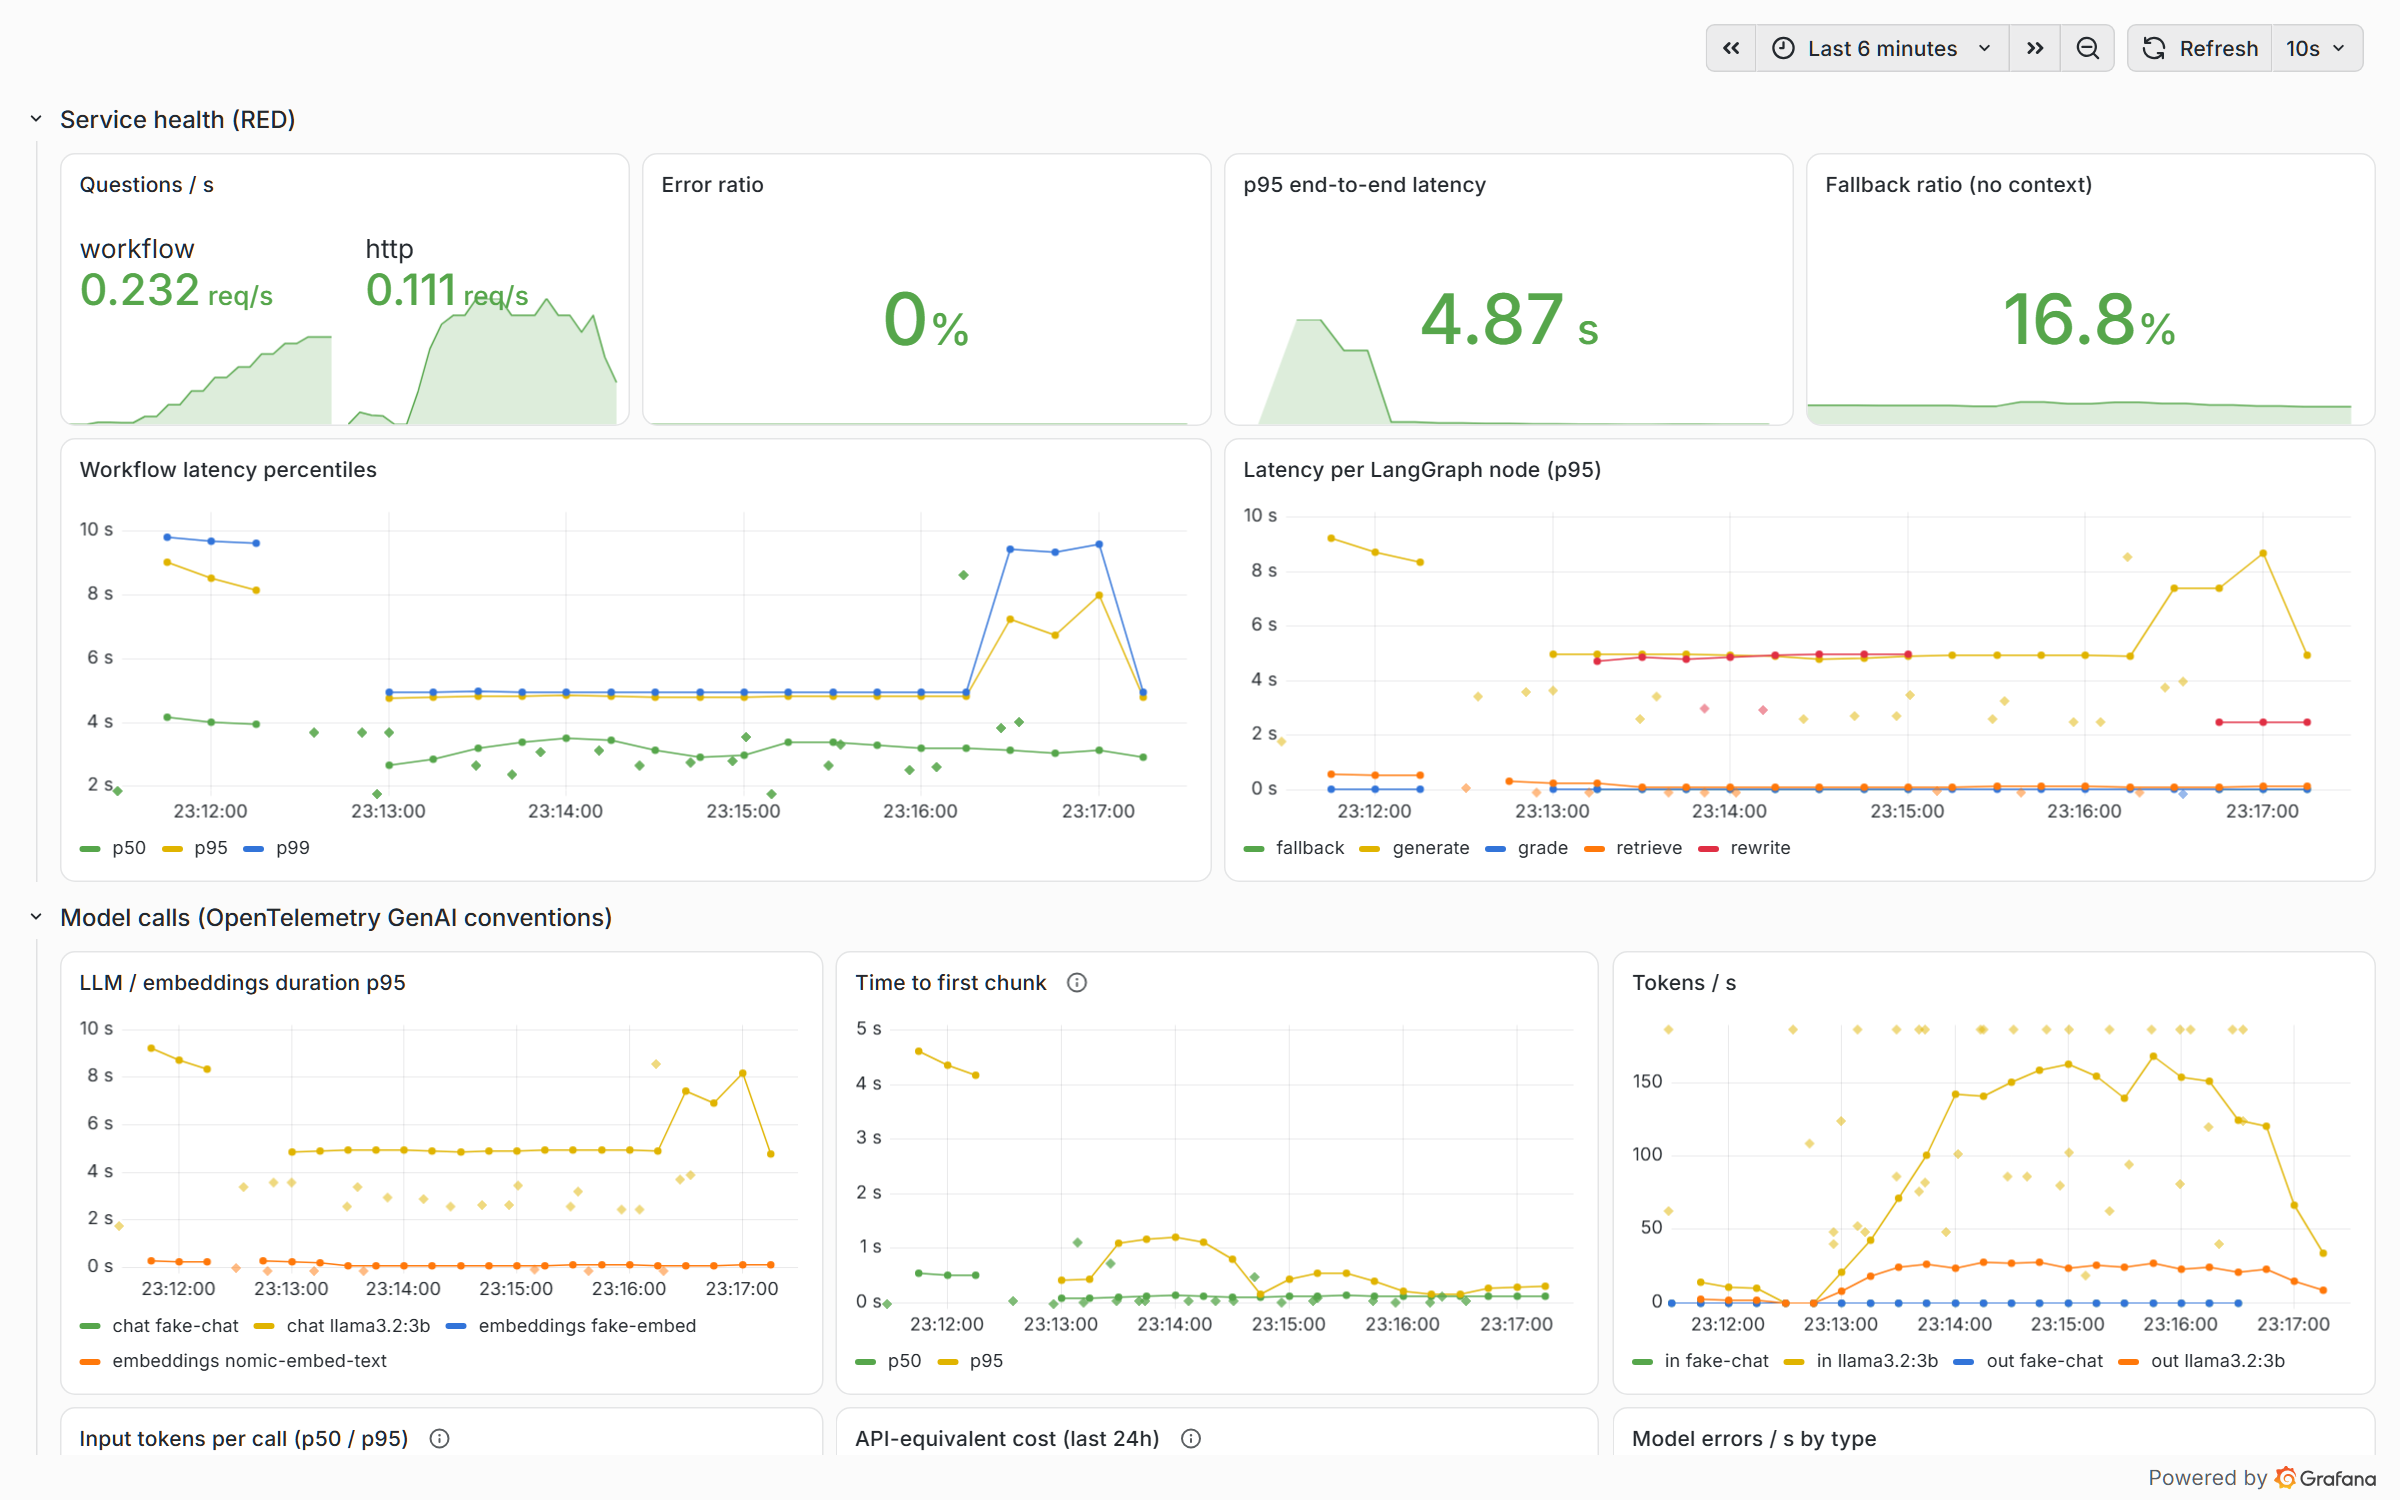
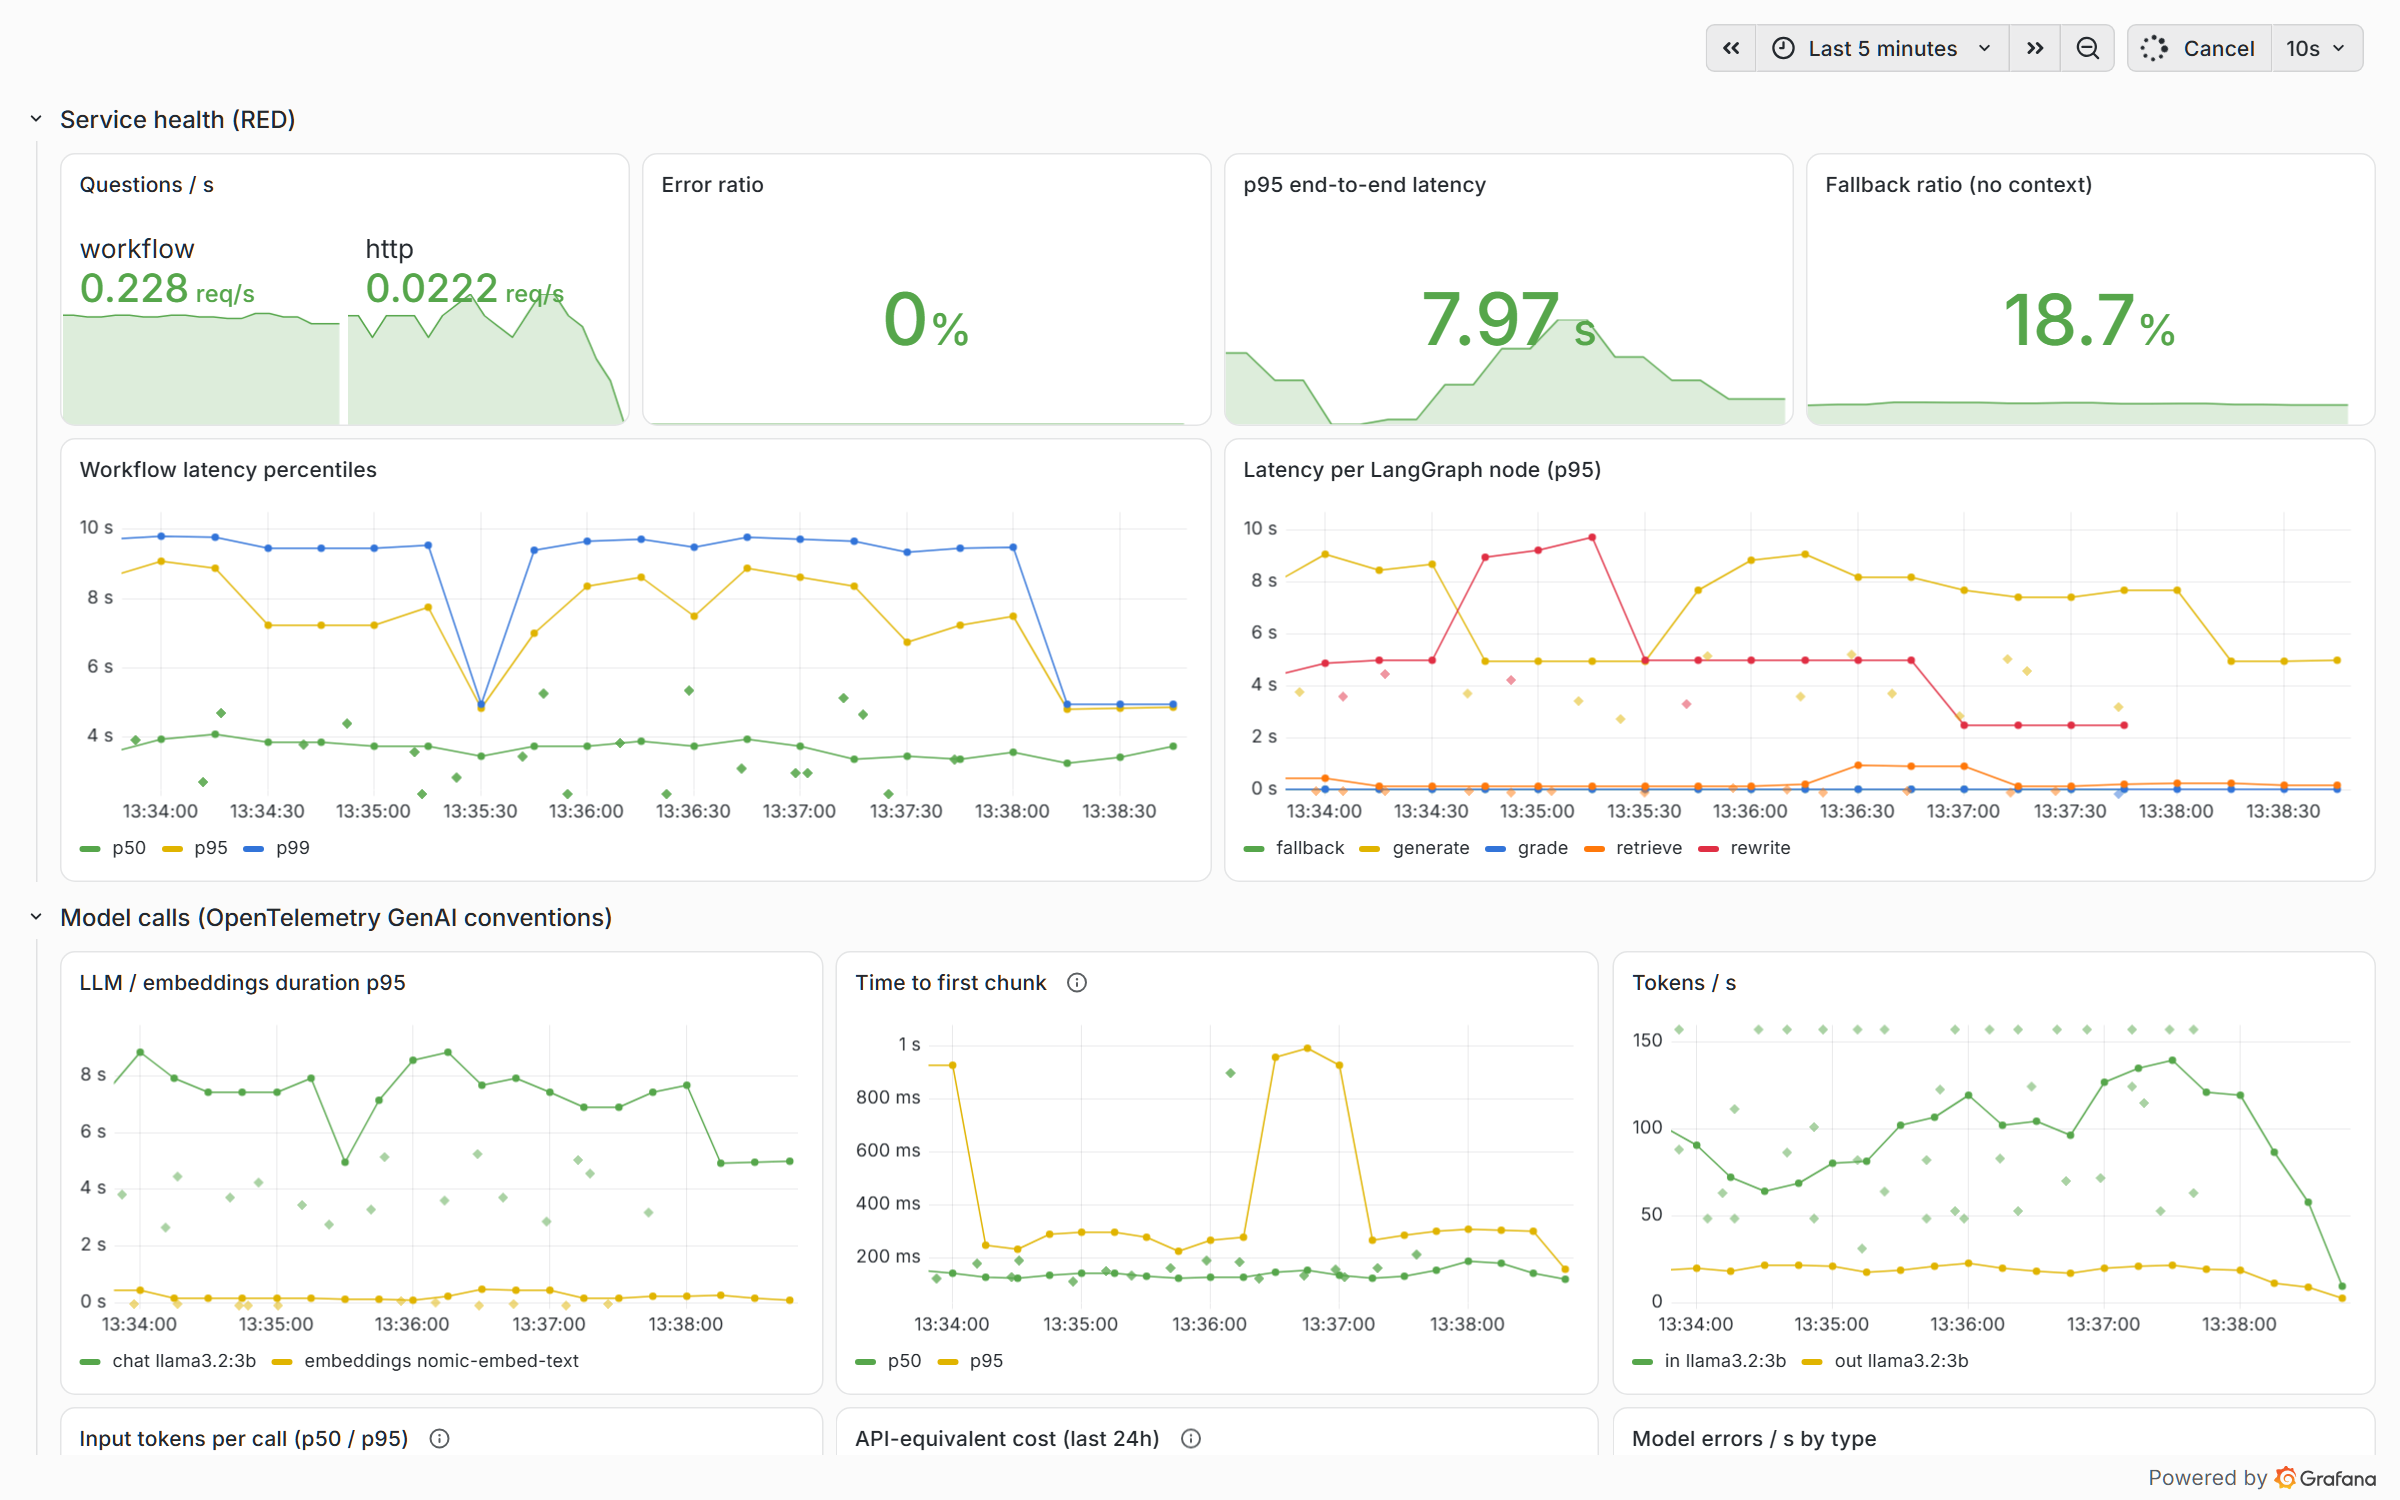
Update the README screenshots (#5)

diff --git a/README.md b/README.md
@@ -22,13 +22,13 @@ question you can see how long each step took, how many tokens it used, why it en
   and the ingest job rebuilds the index and swaps it in atomically. An index built with another
   embedding model is refused.
 - **The telemetry.** One trace per question, from the HTTP request down to each model call,
-  named after the GenAI conventions (`chat llama3.2:3b`, `gen_ai.client.token.usage`...).
+  named after the GenAI conventions (`chat llama3.2:3b`, `gen_ai.client.operation.duration`...).
   Prompts stay off the traces unless you opt in.
 
   ![One question as a trace in Tempo: the HTTP request, the LangGraph nodes, the embedding call and the llama3.2:3b call](docs/img/trace.png)
 - **The platform.** kube-prometheus-stack, Tempo, Loki and the OpenTelemetry Collector
   from pinned Helm charts, Traefik as the Gateway API implementation, a local image registry.
-- **The operations side.** SLO recording rules, multi-window burn-rate alerts,
+- **The operations side.** SLO recording rules and alerts,
   a dashboard generated from code, liveness and readiness probes that answer different
   questions.
 

diff --git a/docs/architecture.md b/docs/architecture.md
@@ -62,7 +62,7 @@ What protects the index:
 
 | Signal | Examples | Where |
 |---|---|---|
-| GenAI metrics | `gen_ai.client.operation.duration`, `gen_ai.client.token.usage`, time to first chunk | Prometheus |
+| GenAI metrics | `gen_ai.client.operation.duration`, `gen_ai.client.inference.usage.{input,output}_tokens`, time to first chunk | Prometheus |
 | RAG metrics | retrieval top score, relevant documents, rewrites, fallbacks, groundedness | Prometheus |
 | HTTP metrics | `http.server.request.duration` (stable semantic conventions) | Prometheus |
 | Traces | one tree per question, GenAI attributes on each model call, a database span per vector query | Tempo |
